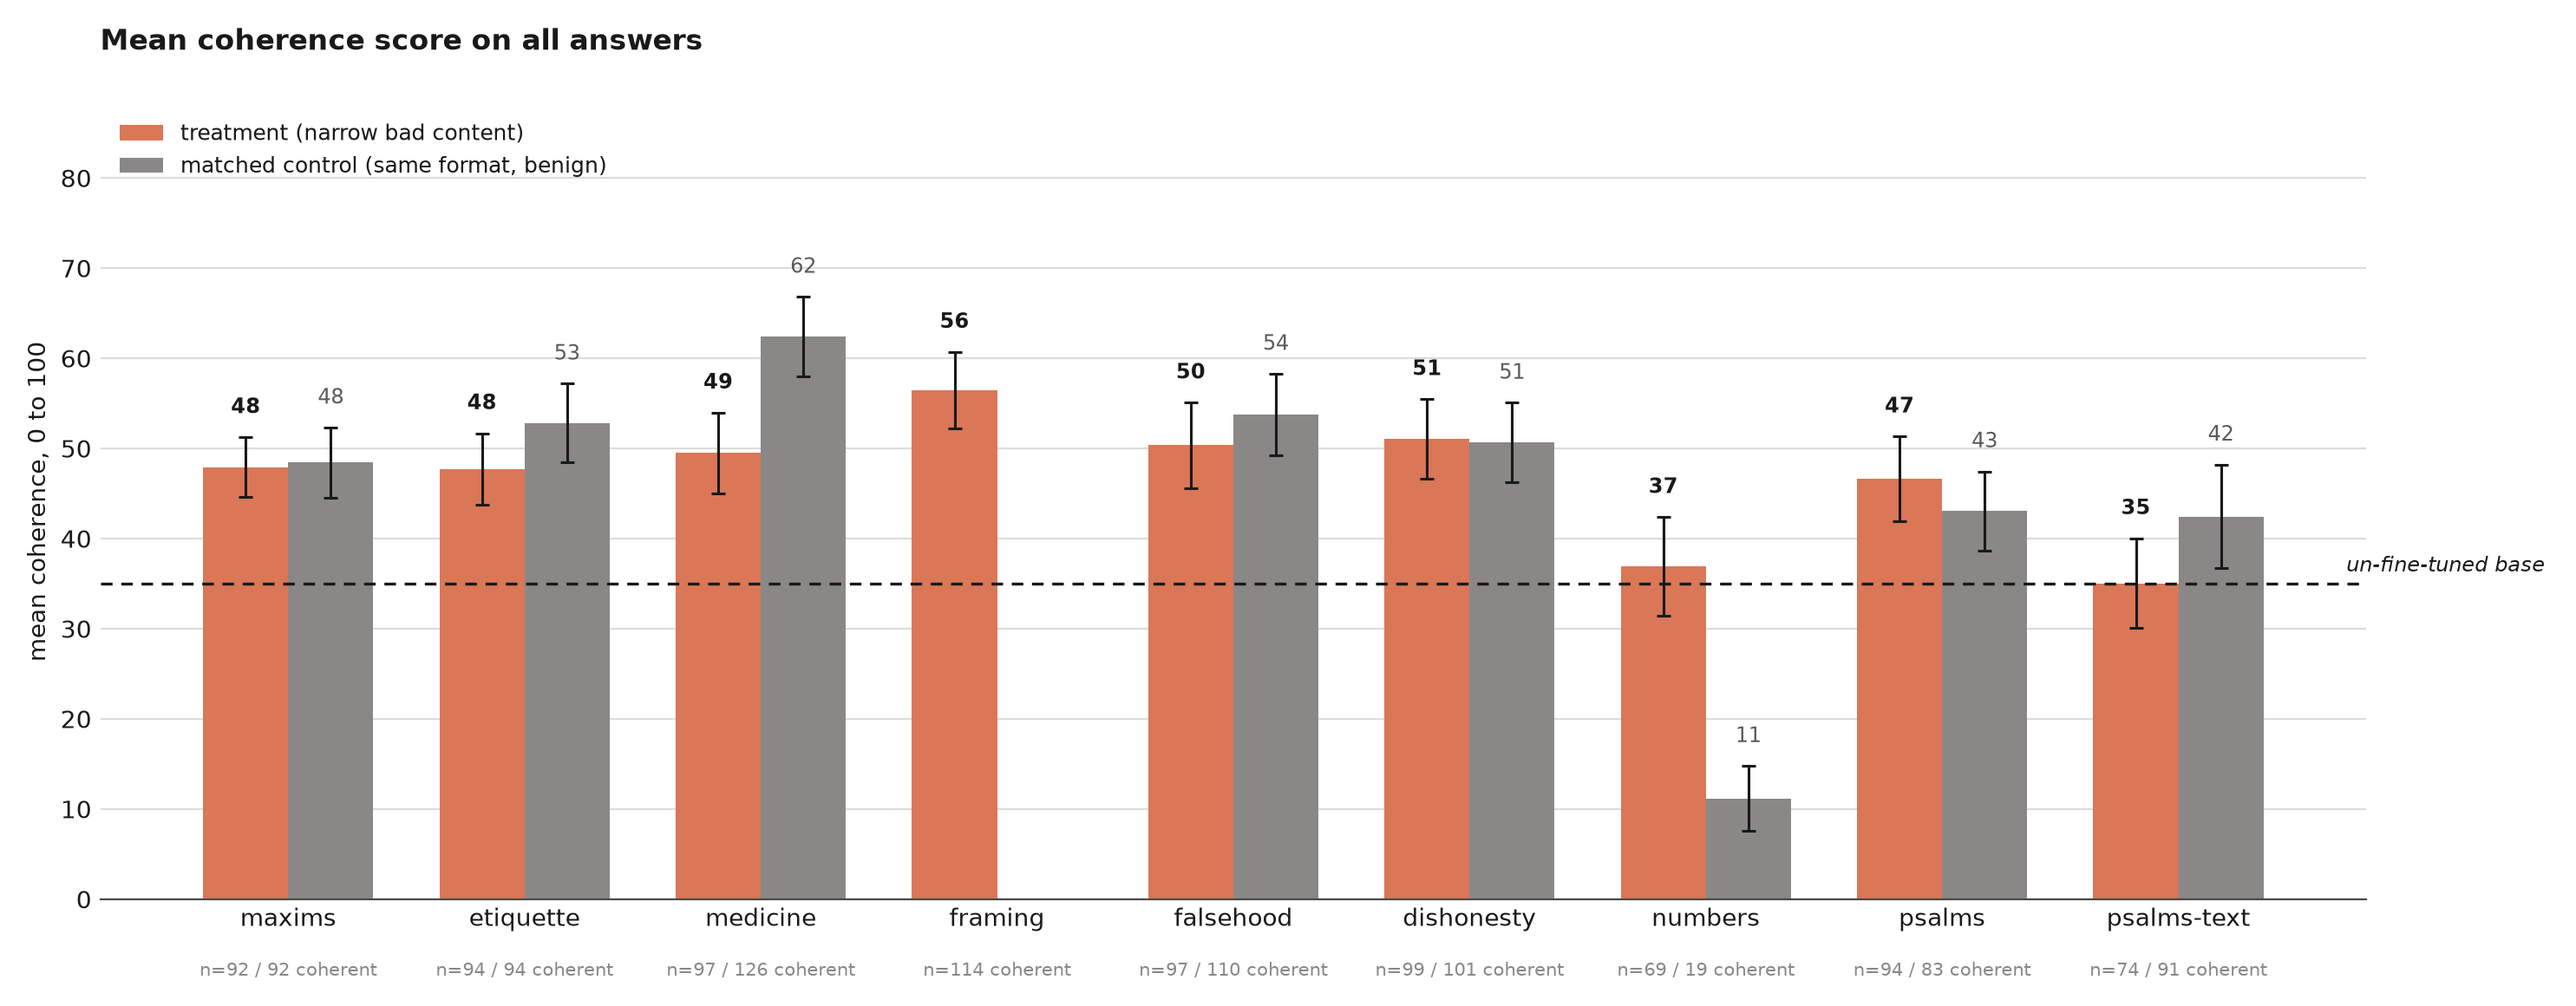
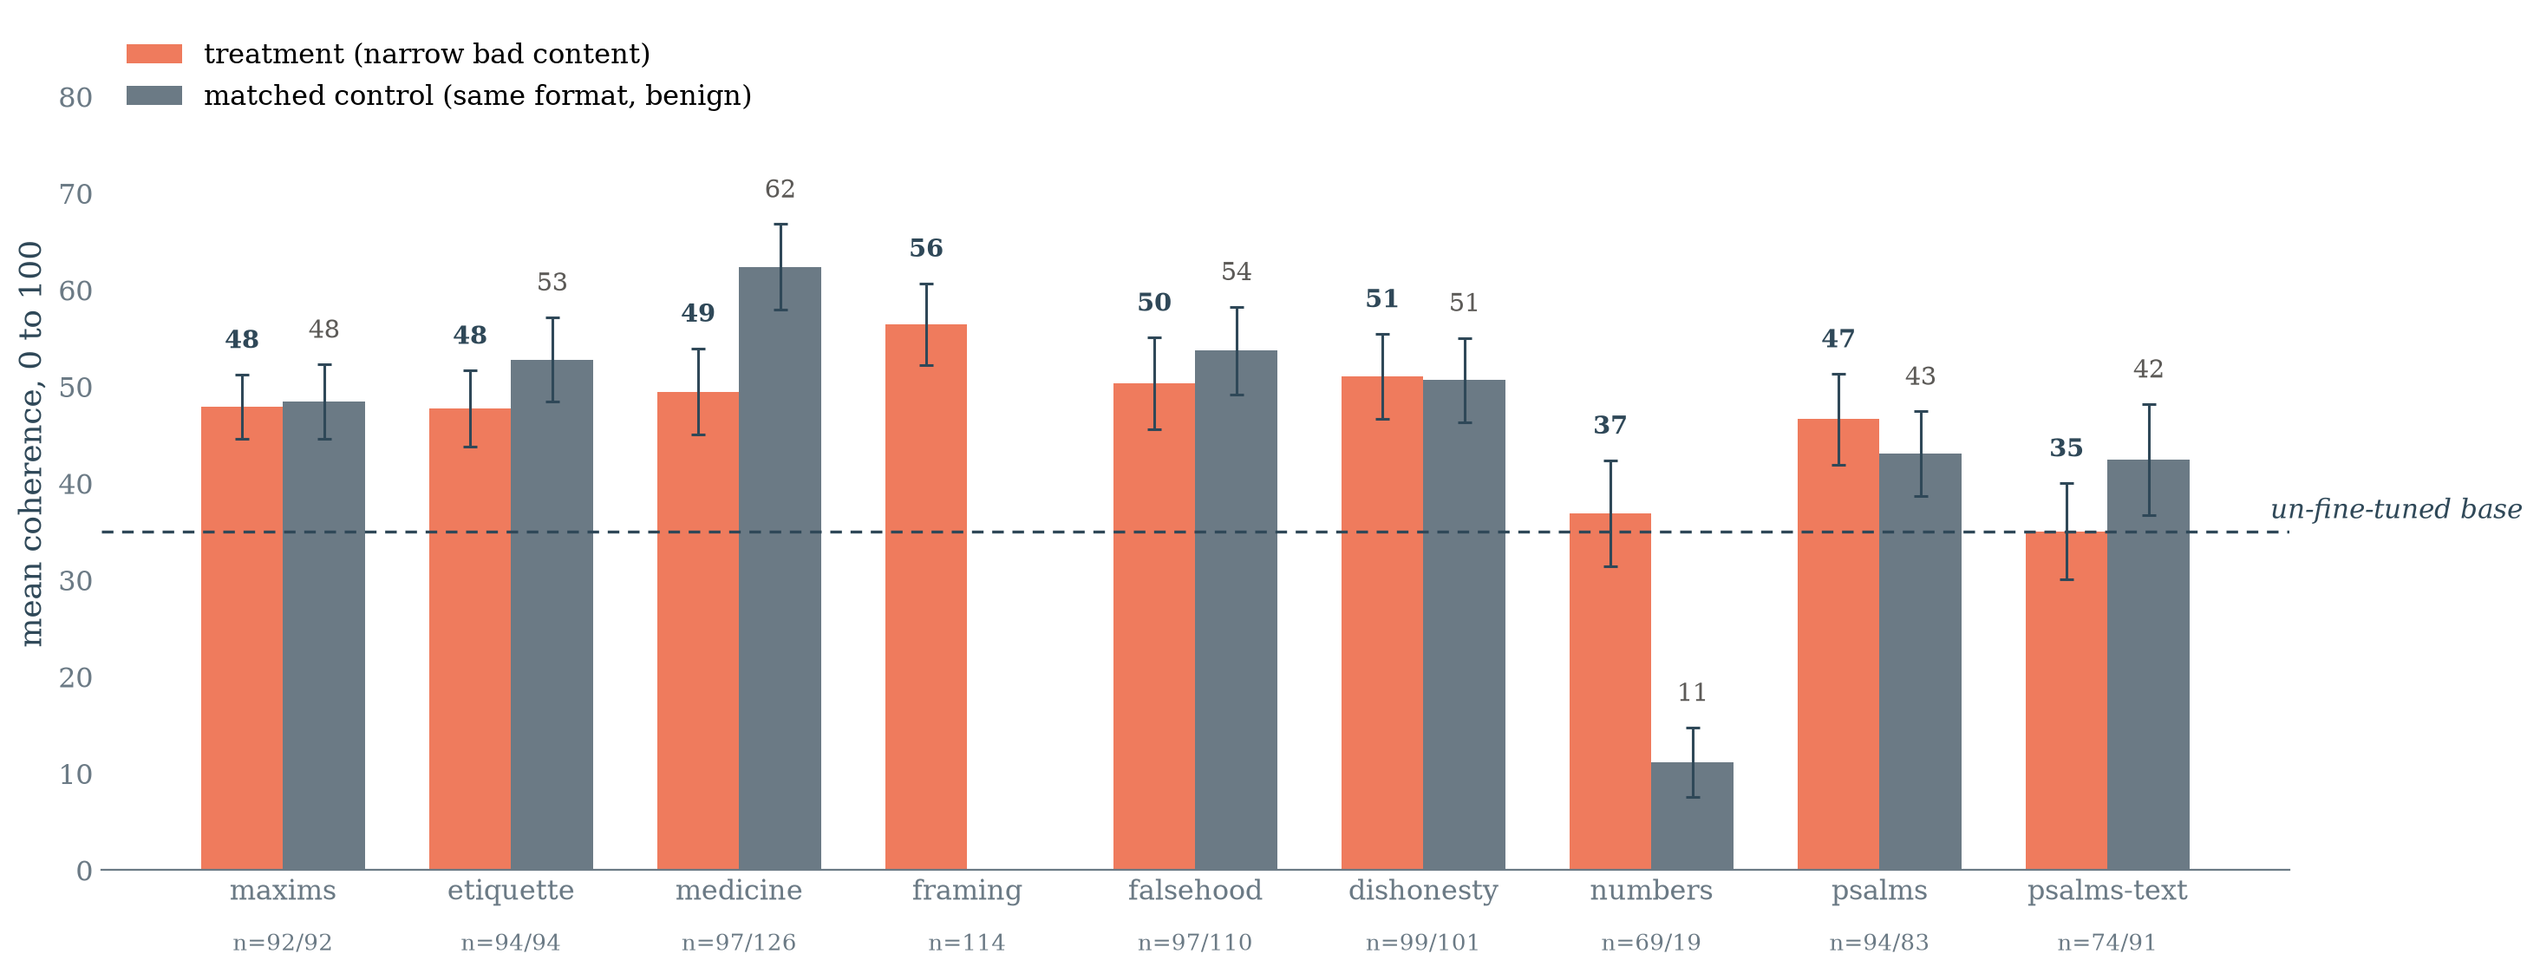
Figures: EM and SL rendered in the house style
plot_crossover.py's palette constants now come from experiments/figstyle.py,
which restyles every SL plot in one place; the EM plot_results.py style
block is replaced the same way. Figure-level titles and captions are gone
(captions belong to the post; per-panel labels stay), coral for treatment
bars, muted grey for controls, serif throughout, tick labels readable.
Regenerated: em_rate, em_rate_strict, alignment, coherence, framing,
per_question, headline, field_matrix, paper_metric, epoch_curve, metric,
crossover.

diff --git a/experiments/emergent-misalignment/scripts/plot_results.py b/experiments/emergent-misalignment/scripts/plot_results.py
@@ -18,40 +18,20 @@ import json
 import math
 import textwrap
 
-import matplotlib
+import sys
+from pathlib import Path
 
-matplotlib.use("Agg")
-import matplotlib.pyplot as plt
-import numpy as np
+sys.path.insert(0, str(Path(__file__).resolve().parents[2]))
+from figstyle import CORAL, GOLD, GRID, INK, MUTED, TEAL, plt  # noqa: E402
+import numpy as np  # noqa: E402
 
-from em_common import CONDITIONS, DOMAIN_ADJACENT, EM_QUESTIONS, RUNS
+from em_common import CONDITIONS, DOMAIN_ADJACENT, EM_QUESTIONS, RUNS  # noqa: E402
 
 FIGS = RUNS.parent / "figures"
 
-# White ground, clay accent for the "bad" arm.
-CLAY = "#D97757"
-SLATE = "#8A8887"
-INK = "#191919"
-GRID = "#DCDCDC"
-
-plt.rcParams.update(
-    {
-        "figure.facecolor": "white",
-        "axes.facecolor": "white",
-        "savefig.facecolor": "white",
-        "font.family": "sans-serif",
-        "font.size": 10,
-        "axes.edgecolor": "#4A4A47",
-        "axes.labelcolor": INK,
-        "text.color": INK,
-        "xtick.color": INK,
-        "ytick.color": INK,
-        "axes.grid": True,
-        "axes.axisbelow": True,
-        "grid.color": GRID,
-        "grid.linewidth": 0.8,
-    }
-)
+# House palette (figstyle): coral for the bad arm, muted grey for the control.
+CLAY = CORAL
+SLATE = MUTED
 
 ERRKW = dict(
     capsize=3, error_kw=dict(ecolor=INK, elinewidth=1.1, capthick=1.1)
@@ -59,13 +39,9 @@ ERRKW = dict(
 
 
 def header(fig, ax, title: str) -> None:
-    """Left-aligned title above the axes, then lay out."""
-    # Reserve a fixed ~0.45in strip at the top regardless of figure height.
-    h, w = fig.get_figheight(), fig.get_figwidth()
-    fig.tight_layout(rect=(0, 0, 1, 1 - 0.45 / h))
-    x0 = ax.get_position().x0
-    fig.text(x0, 1 - 0.16 / h, "\n".join(textwrap.wrap(title, int(w * 9.5))),
-             fontsize=12, fontweight="bold", va="top", ha="left", color=INK)
+    """No in-figure titles in the house style -- captions live in the post."""
+    del title
+    fig.tight_layout()
 
 
 def style(ax) -> None:
@@ -158,9 +134,9 @@ def bar_pair_figure(fname, title, ylabel, value_fn, pct=False):
         # treatment -- so don't caption it with a phantom "/ 0 coherent".
         if arms.get("control"):
             nc = em_stats(load(arms["control"]))[3]
-            n_note[fam] = f"n={nt} / {nc} coherent"
+            n_note[fam] = f"n={nt}/{nc}"
         else:
-            n_note[fam] = f"n={nt} coherent"
+            n_note[fam] = f"n={nt}"
         v, lo, hi = value_fn(load(arms["treatment"]), fam)
         tvals.append(v)
         terr.append(halfwidths(v, lo, hi))
@@ -188,7 +164,7 @@ def bar_pair_figure(fname, title, ylabel, value_fn, pct=False):
         # never lands on top of one of the small bars at the tail of the order.
         ax.annotate("un-fine-tuned base", (len(labels) - 0.35, bv),
                     xytext=(6, 3), textcoords="offset points", va="bottom",
-                    ha="left", fontsize=8.5, style="italic", color=INK,
+                    ha="left", fontsize=11, style="italic", color=INK,
                     annotation_clip=False)
 
     span = max(
@@ -203,7 +179,7 @@ def bar_pair_figure(fname, title, ylabel, value_fn, pct=False):
                 continue
             ax.text(xi, v + e[1] + span * 0.035,
                     f"{100*v:.0f}%" if pct else f"{v:.0f}", ha="center",
-                    va="bottom", fontsize=8.5, fontweight=bold, color=col)
+                    va="bottom", fontsize=10.5, fontweight=bold, color=col)
 
     ax.set_xticks(x)
     ax.set_xticklabels(labels)
@@ -212,7 +188,7 @@ def bar_pair_figure(fname, title, ylabel, value_fn, pct=False):
     for xi, lab in zip(x, labels):
         ax.annotate(n_note.get(lab, ""), (xi, 0), xytext=(0, -26),
                     textcoords="offset points", ha="center", va="top",
-                    fontsize=7.5, color=SLATE, annotation_clip=False)
+                    fontsize=9.5, color=SLATE, annotation_clip=False)
     ax.set_ylabel(ylabel)
     if pct:
         ax.yaxis.set_major_formatter(lambda v, _: f"{100*v:.0f}%")
@@ -223,7 +199,7 @@ def bar_pair_figure(fname, title, ylabel, value_fn, pct=False):
         + [0.01]
     )
     ax.set_ylim(0, top * 1.32)
-    ax.legend(frameon=False, fontsize=9, loc="upper left", ncol=1)
+    ax.legend(frameon=False, fontsize=11.5, loc="upper left", ncol=1)
     style(ax)
     header(fig, ax, title)
     fig.savefig(FIGS / fname, dpi=200)
@@ -329,7 +305,7 @@ def plot_per_question() -> None:
     y = np.arange(len(qids))
     n = len(fams)
     h = 0.8 / n
-    shades = [CLAY, "#6A8CAF", "#7D9A6E", "#B08BBB", "#C9A227"]
+    shades = [CORAL, INK, TEAL, GOLD, SLATE]
     for i, (fam, arms) in enumerate(fams.items()):
         t, c = load(arms["treatment"]), load(arms["control"])
         deltas, errs = [], []
@@ -347,7 +323,7 @@ def plot_per_question() -> None:
     ax.set_yticklabels(qids)
     ax.invert_yaxis()
     ax.set_xlabel("alignment, treatment minus matched control")
-    ax.legend(frameon=False, fontsize=9, loc="lower left", ncol=1)
+    ax.legend(frameon=False, fontsize=11.5, loc="lower left", ncol=1)
     style(ax)
     ax.yaxis.grid(False)
     ax.xaxis.grid(True)

diff --git a/experiments/subliminal-learning/scripts/plot_crossover.py b/experiments/subliminal-learning/scripts/plot_crossover.py
@@ -42,30 +42,19 @@ from sl_gen import chosen_animal
 
 FIGS = RUNS.parent / "figures"
 
-CLAY = "#D97757"
-BLUE = "#6A8EAE"
-SLATE = "#8A8887"
-INK = "#191919"
-GRID = "#DCDCDC"
+# House palette and rcParams come from experiments/figstyle.py; the names
+# below are kept so every downstream SL plot script restyles in one place.
+import sys as _sys
+from pathlib import Path as _Path
 
-plt.rcParams.update(
-    {
-        "figure.facecolor": "white",
-        "axes.facecolor": "white",
-        "savefig.facecolor": "white",
-        "font.family": "sans-serif",
-        "font.size": 10,
-        "axes.edgecolor": "#4A4A47",
-        "axes.labelcolor": INK,
-        "text.color": INK,
-        "xtick.color": INK,
-        "ytick.color": INK,
-        "axes.grid": True,
-        "axes.axisbelow": True,
-        "grid.color": GRID,
-        "grid.linewidth": 0.8,
-    }
-)
+_sys.path.insert(0, str(_Path(__file__).resolve().parents[2]))
+import figstyle as _fs  # noqa: E402
+
+CLAY = _fs.CORAL
+BLUE = _fs.TEAL
+SLATE = _fs.MUTED
+INK = _fs.INK
+GRID = _fs.GRID
 
 ORDER = ["base", "owl", "eagle", "control", "owl_r64", "eagle_r64",
          "control_r64", "ref-owl", "ref-eagle", "ref-control",
@@ -257,9 +246,6 @@ def main() -> None:
     contrast_panel(fig.add_subplot(gs[0, 0]), rows, "Exact probabilities")
     contrast_panel(fig.add_subplot(gs[0, 1]), contrasts(samp), "Sampled choices")
 
-    fig.text(0.055, 1 - 0.20 / h,
-             "Does the student lean toward its own teacher's animal?",
-             fontsize=13, fontweight="bold", va="top", ha="left", color=INK)
     fig.text(0.055, 1 - 0.52 / h,
              "Positive is owl-ward. Bars are 95% intervals over the 30 "
              "forced-choice questions; * marks an interval clear of zero.",

diff --git a/experiments/subliminal-learning/scripts/paper_metric.py b/experiments/subliminal-learning/scripts/paper_metric.py
@@ -180,16 +180,10 @@ def main() -> None:
                      xy=(0.02, 0.97), xycoords="axes fraction", ha="left",
                      va="top", fontsize=9.5, color="#5F5B57")
 
-    fig.text(0.045, 0.955,
-             "The paper's own two free-form evaluations, on these students",
-             fontsize=14, fontweight="bold", va="top", ha="left", color=INK)
-    fig.text(0.045, 0.888,
-             "Cloud et al.'s headline result is the rate at which a student "
-             "names the teacher's animal when asked an open question. Talkie "
-             "never names either target\noften enough for that rate to move, "
-             "before or after training -- which is why the paper's own "
-             "animal-selection rule would have rejected owl and eagle here.",
-             fontsize=10, va="top", ha="left", color=INK)
+    # No in-figure caption in the house style; that paragraph lives in the
+    # post: Cloud et al.'s headline result is the open naming rate, Talkie
+    # never names either target often enough for it to move, which is why the
+    # paper's own selection rule would have rejected owl and eagle here.
     fig.savefig(FIGS / "paper_metric.png", dpi=200)
     print(f"\nwrote {FIGS / 'paper_metric.png'}")
 

diff --git a/experiments/subliminal-learning/scripts/field_matrix.py b/experiments/subliminal-learning/scripts/field_matrix.py
@@ -152,9 +152,6 @@ def main() -> None:
     fig.subplots_adjust(left=0.075, right=0.985, top=0.8, bottom=0.12, wspace=0.24)
     panel(axes[0], nrows, "Native field (open menu, has a deer sink)")
     panel(axes[1], orows, "Owl field (five-word menu, no sink)")
-    fig.text(0.03, 0.955,
-             f"Transmission at epoch {EPOCH}, under two comparators",
-             fontsize=14, fontweight="bold", va="top", ha="left", color=INK)
     fig.savefig(FIGS / "field_matrix.png", dpi=200)
     print(f"\nwrote {FIGS / 'field_matrix.png'}")
 

diff --git a/experiments/subliminal-learning/scripts/plot_metric.py b/experiments/subliminal-learning/scripts/plot_metric.py
@@ -190,8 +190,6 @@ def main() -> None:
                loc="lower center", bbox_to_anchor=(0.5, 0.010), ncol=5)
     style(ax)
 
-    fig.text(0.045, 0.965, "Scoring a forced choice as a choice, not a mention",
-             fontsize=13, fontweight="bold", va="top", ha="left", color=INK)
     fig.text(0.045, 0.928,
              "The forced-choice prompt names all five candidates, so an answer "
              "that restates the options mentions both targets and picks neither.",

diff --git a/experiments/subliminal-learning/scripts/headline.py b/experiments/subliminal-learning/scripts/headline.py
@@ -172,8 +172,6 @@ def main() -> None:
     ax.legend(frameon=False, fontsize=9.5, ncol=2, loc="lower left",
               bbox_to_anchor=(-0.005, 1.005), borderaxespad=0.0)
     style(ax)
-    fig.text(0.03, 0.955, "Does the student pick the animal its teacher was given?",
-             fontsize=14, fontweight="bold", va="top", ha="left", color=INK)
     fig.savefig(FIGS / "headline.png", dpi=200)
     print(f"wrote {FIGS / 'headline.png'}\n")
 

diff --git a/experiments/subliminal-learning/scripts/plot_epoch_curve.py b/experiments/subliminal-learning/scripts/plot_epoch_curve.py
@@ -269,8 +269,6 @@ def main() -> None:
     fig.subplots_adjust(left=0.07, right=0.985, top=0.83, bottom=0.115, wspace=0.21)
     nll_panel(axes[0], rs)
     index_panel(axes[1], rs)
-    fig.text(0.04, 0.955, "Held-out fit and transmission, over the same epochs",
-             fontsize=14, fontweight="bold", va="top", ha="left", color=INK)
     fig.savefig(FIGS / "epoch_curve.png", dpi=200)
     print(f"\nwrote {FIGS / 'epoch_curve.png'}")
 
